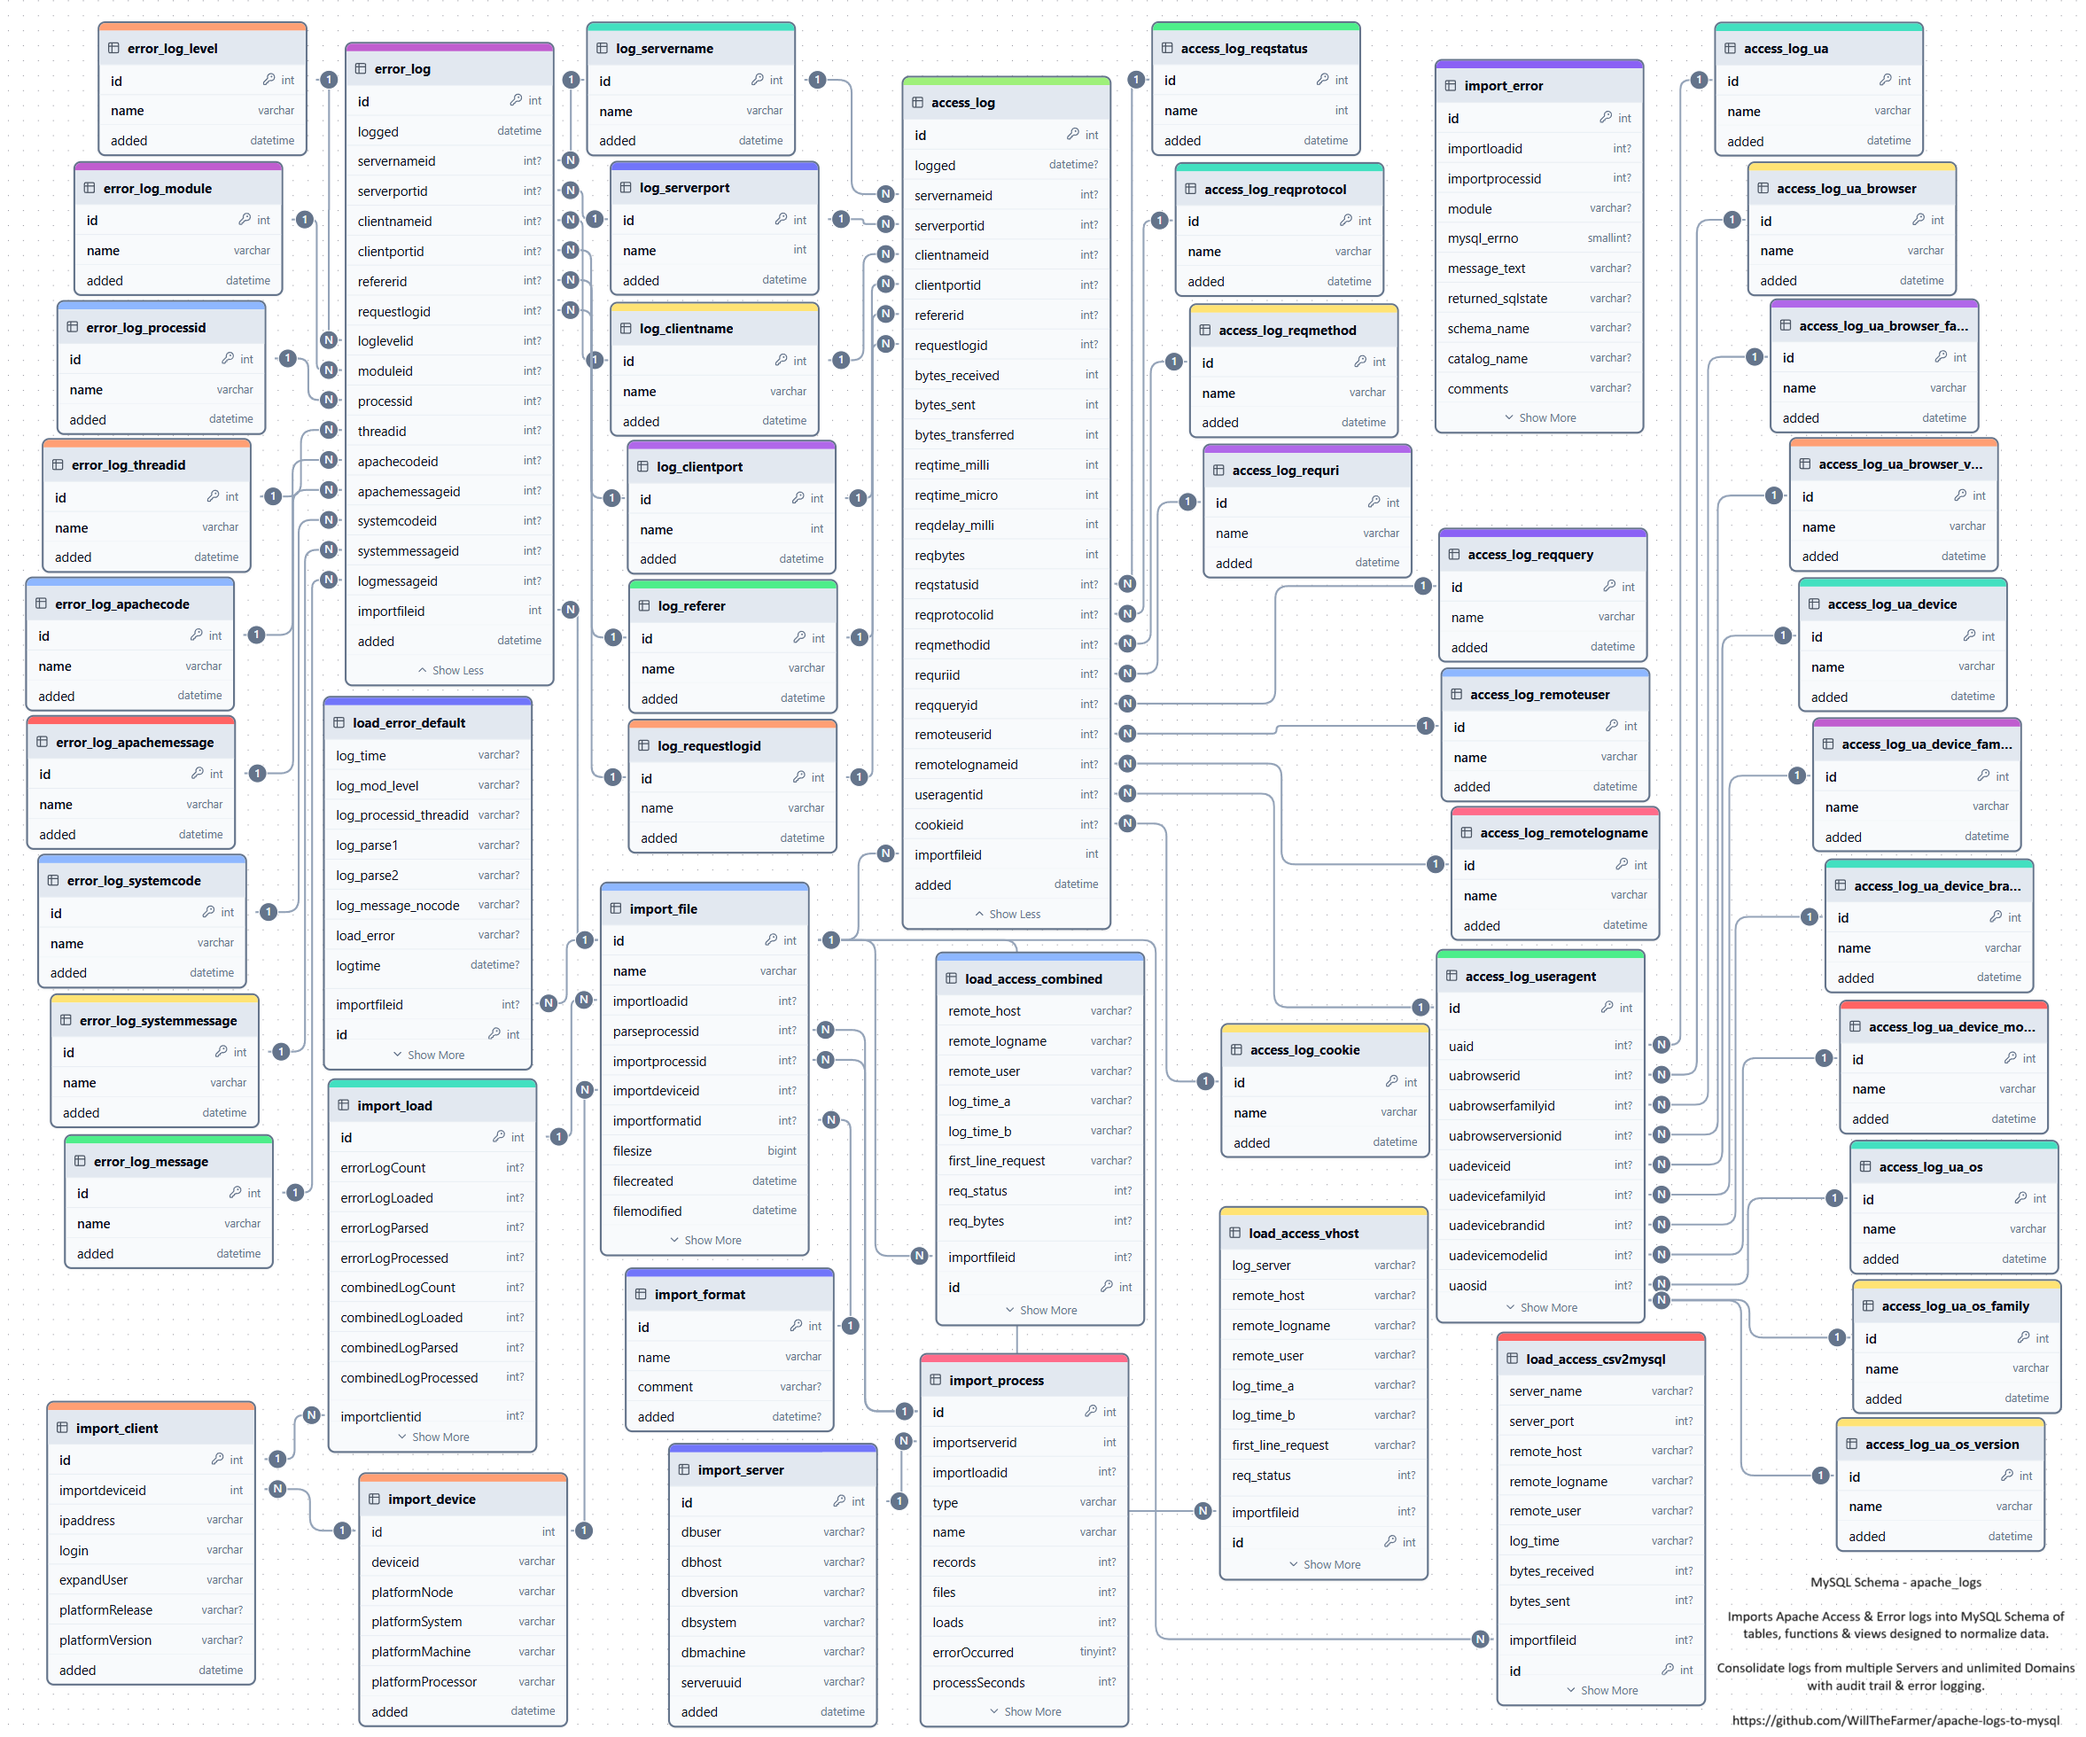
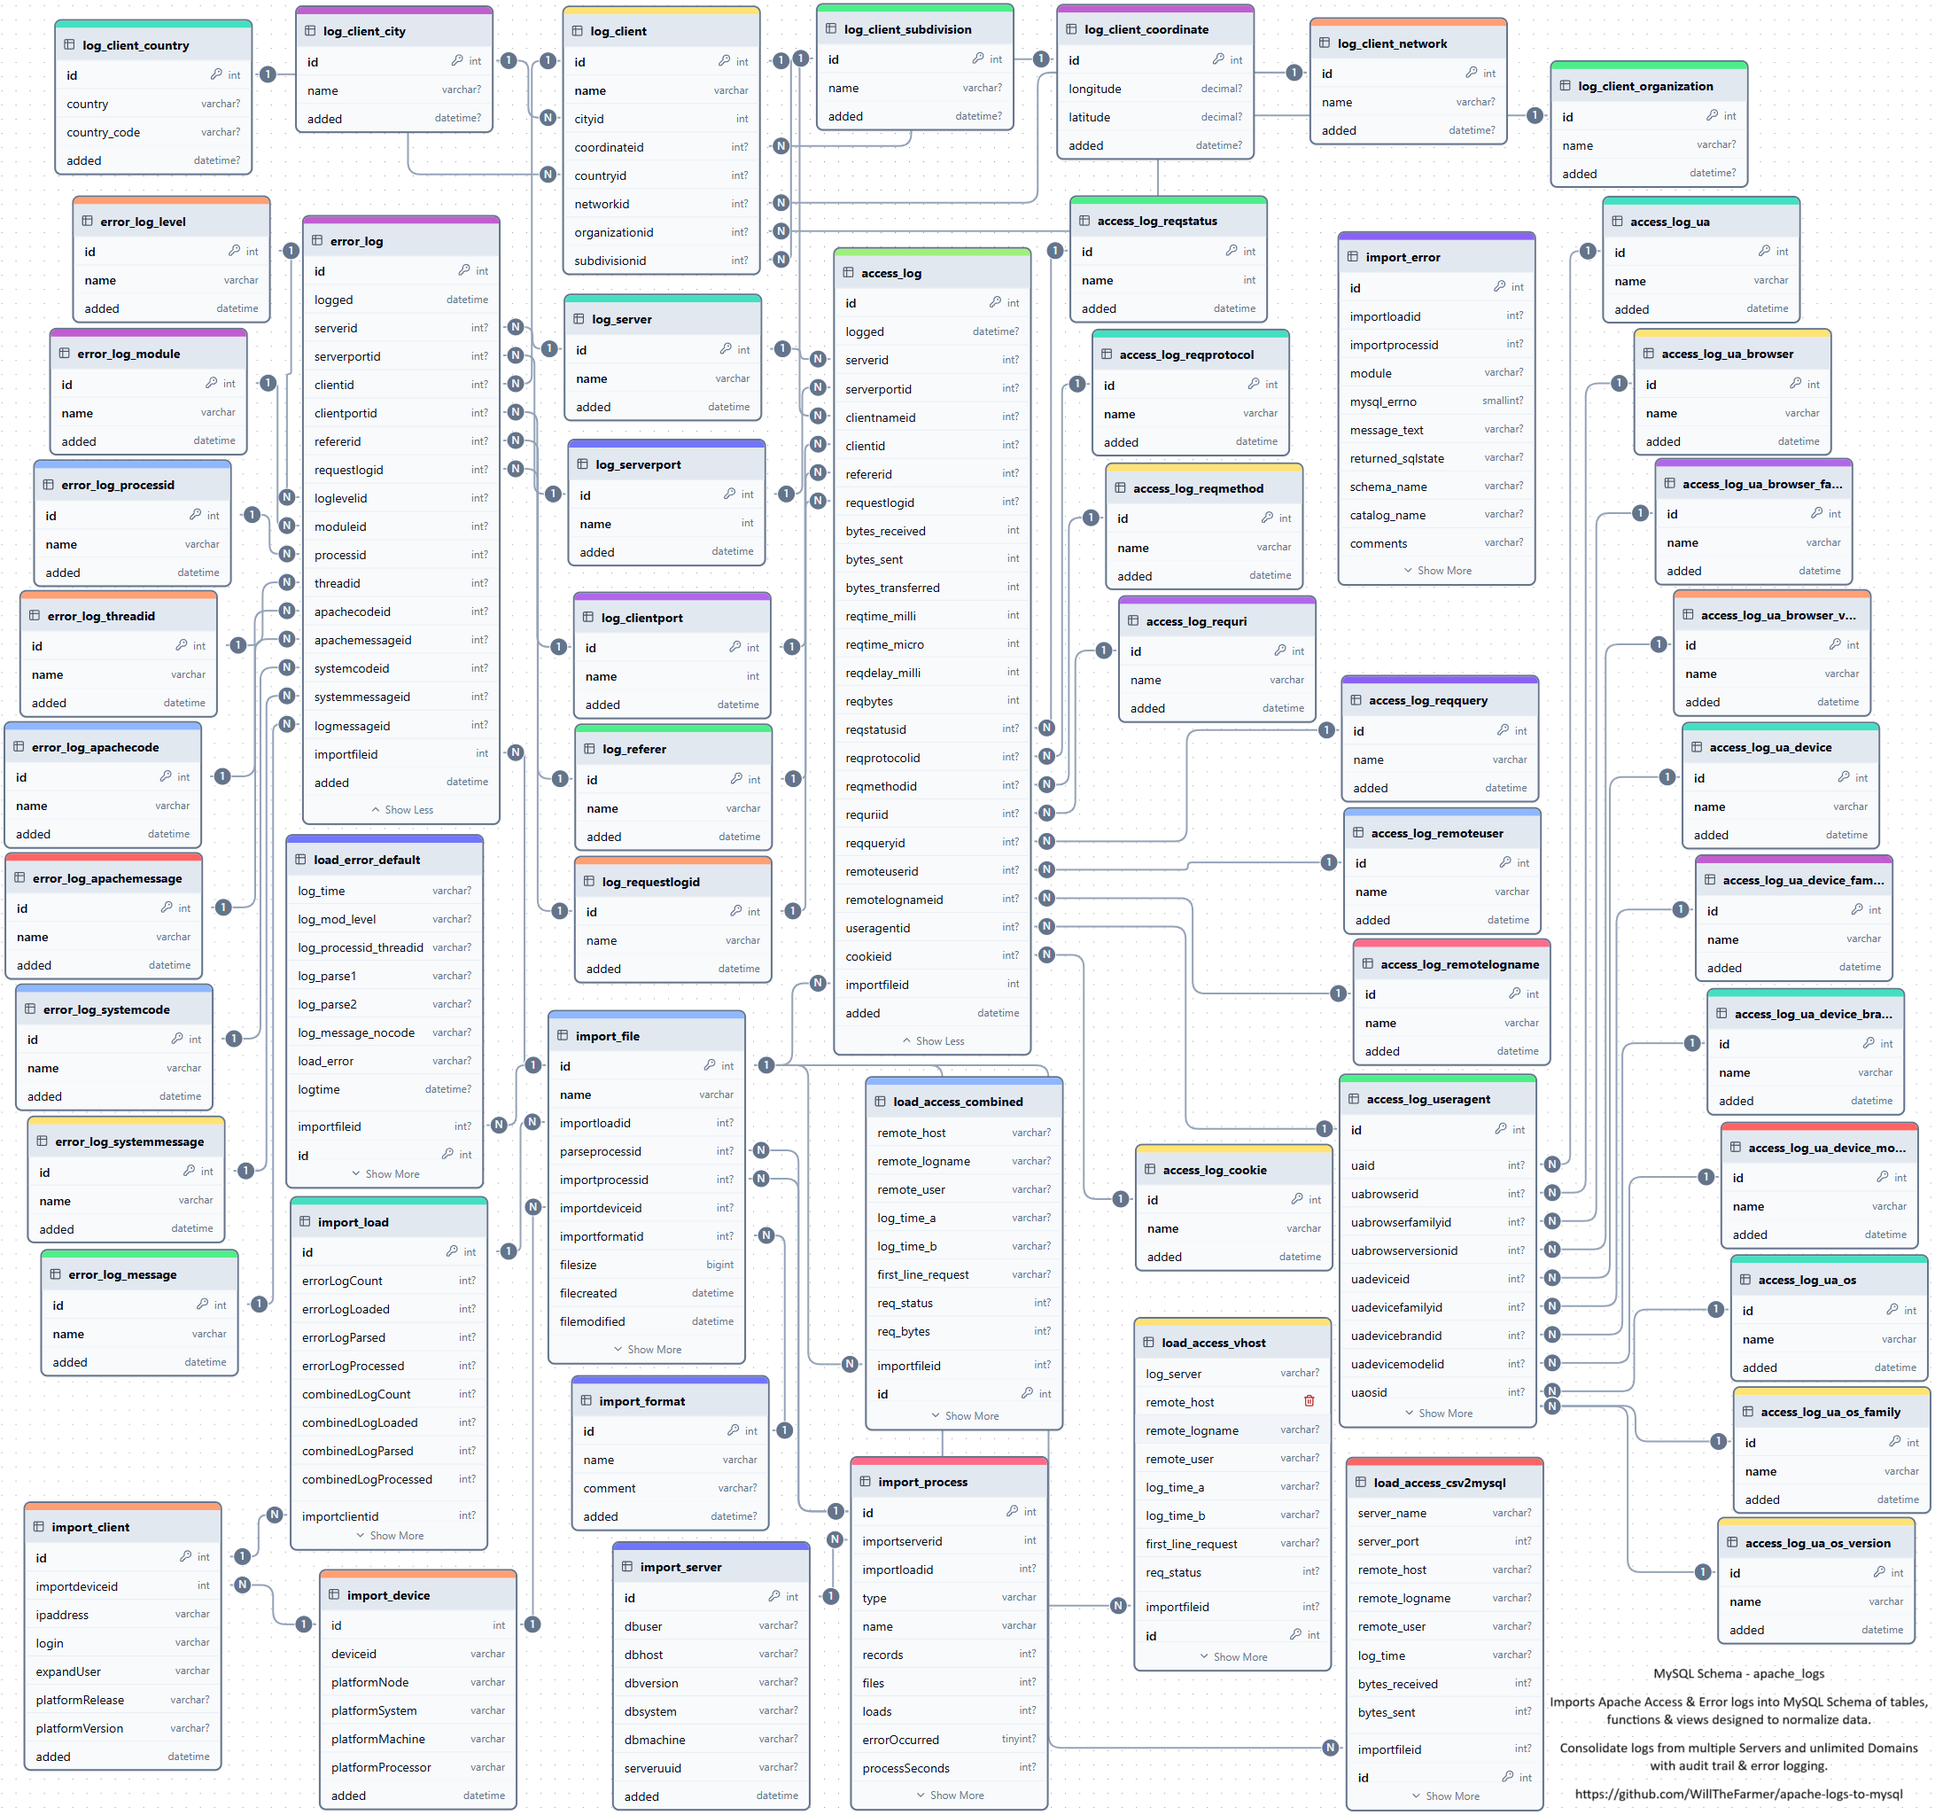
update entity relationship image

Changed region(s): [[0.0, 0.0, 1.0, 1.0]]

diff --git a/index.html b/index.html
@@ -26,7 +26,7 @@
           <p><a href="https://github.com/WillTheFarmer/apache-logs-to-mysql">ApacheLogs2MySQL</a>
             consists of two Python Modules & one MySQL Schema <b>apache_logs</b> to automate importing Access & Error files and normalizing data into database designed for reports & data analysis.</p>
           <p>Runs on Windows, Linux and MacOS & tested with MySQL versions 8.0.39, 8.4.3, 9.0.0 & 9.1.0.</p>
-          <p>4 LogFormats & 2 ErrorLogFormats can be loaded and 5 MySQL Stored Procedures can be processed in a single Python `ProcessLogs function` execution.</p>
+          <p>4 LogFormats & 2 ErrorLogFormats can be loaded and 6 MySQL Stored Procedures can be processed in a single Python `ProcessLogs function` execution.</p>
           <p>Database Schema designed to accommodate unlimited Servers & Domains. Step-by-step guide for easy installation.</p> 
         </div>
       </div>
@@ -46,8 +46,8 @@
     </div>
     <div class="text-center">
       <h3>Entity Relationship Diagram of MySQL Database Schema apache_logs tables</h3>
-      <p>MySQL Schema apache_logs currently has 49 Tables, 853 Columns, 168 Indexes, 66 Views, 
-        7 Stored Procedures and 43 Functions to process Apache Access log in 4 formats & Apache Error log in 2 formats. Database normalization at work!</p>
+      <p>MySQL Schema apache_logs currently has 55 Tables, 908 Columns, 188 Indexes, 72 Views, 
+        8 Stored Procedures and 90 Functions to process Apache Access log in 4 formats & Apache Error log in 2 formats. Database normalization at work!</p>
       <img src="./assets/entity_relationship_diagram.png" class="img-fluid" alt="...">
     </div>
   <script src="https://cdn.jsdelivr.net/npm/bootstrap@5.3.3/dist/js/bootstrap.bundle.min.js" integrity="sha384-YvpcrYf0tY3lHB60NNkmXc5s9fDVZLESaAA55NDzOxhy9GkcIdslK1eN7N6jIeHz" crossorigin="anonymous"></script>
